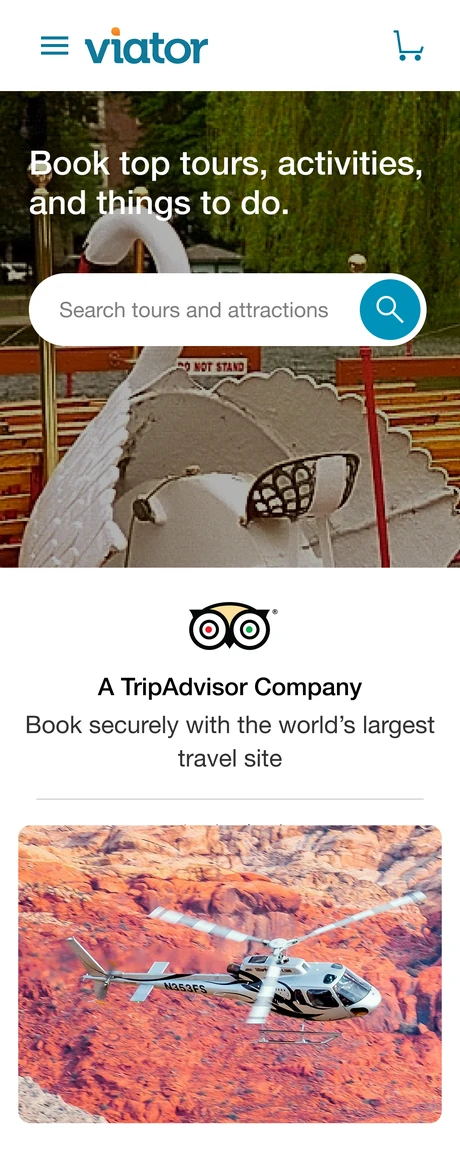
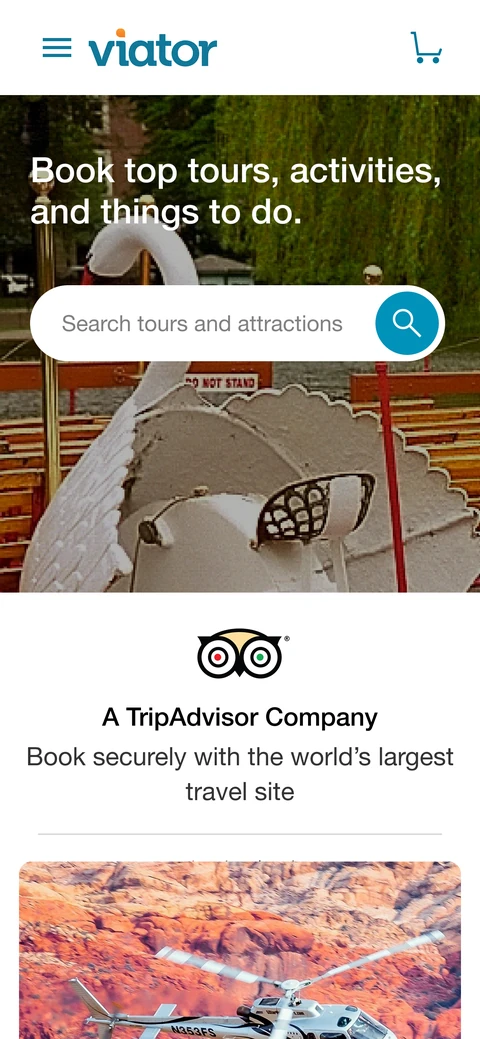
Tripadvisor hero: crop phone to real phone proportions
Claude-Session: https://claude.ai/code/session_01VXSKCsyRqCv6TwdNvrmcXN

diff --git a/tripadvisor.html b/tripadvisor.html
@@ -38,7 +38,7 @@
       </ul>
     </div>
 
-    <div class="shot combo" style="aspect-ratio:2384 / 1474"><img class="win framed" src="assets/img/work/tripadvisor-hero-web.webp" width="1900" height="1278" style="left:17.953%;top:0;width:79.698%" alt="Viator on the web: search for tours and activities, backed by Tripadvisor"><img class="ph framed" src="assets/img/work/tripadvisor-hero-phone.webp" width="460" height="1149" style="left:2.349%;top:18.250%;width:19.295%" alt="The same Viator homepage on a phone"></div>
+    <div class="shot combo" style="aspect-ratio:2384 / 1474"><img class="win framed" src="assets/img/work/tripadvisor-hero-web.webp" width="1900" height="1278" style="left:17.953%;top:0;width:79.698%" alt="Viator on the web: search for tours and activities, backed by Tripadvisor"><img class="ph framed" src="assets/img/work/tripadvisor-hero-phone.webp" width="480" height="1039" style="left:2.349%;top:25.712%;width:20.134%" alt="The same Viator homepage on a phone"></div>
 
     <div class="col prose">
       <p class="m-rise">I led design at Viator, Tripadvisor’s tours and activities company. Viator connects travelers with the tours, tickets, and experiences that make a trip, and with the operators who run them. It also powered the experiences Tripadvisor sold on its own site. I led design across commerce and supplier products, with a team of designers, researchers, analysts, and developers, plus agency partners for marketing.</p>
